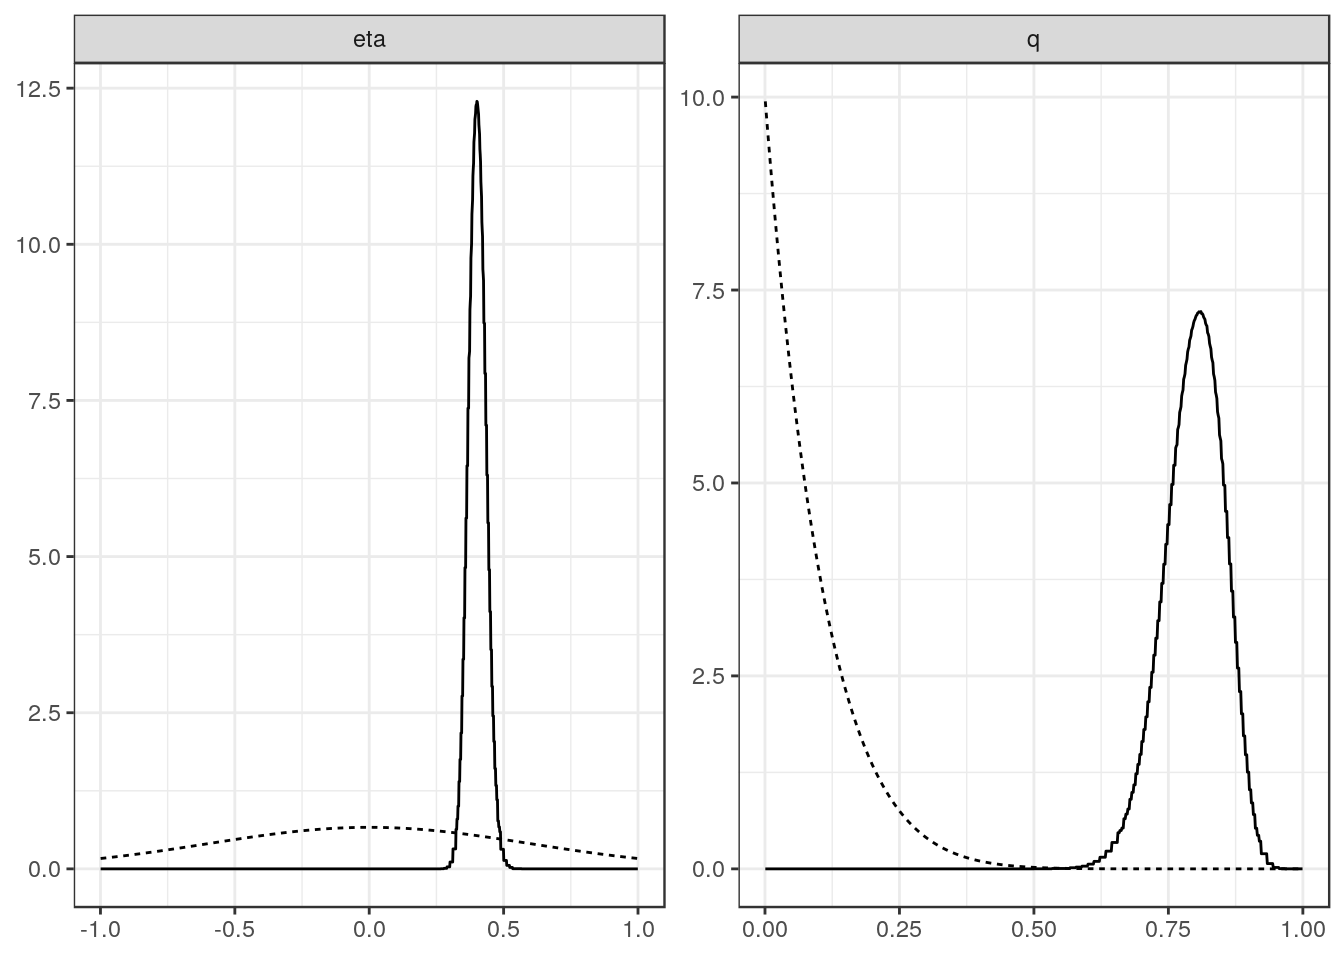
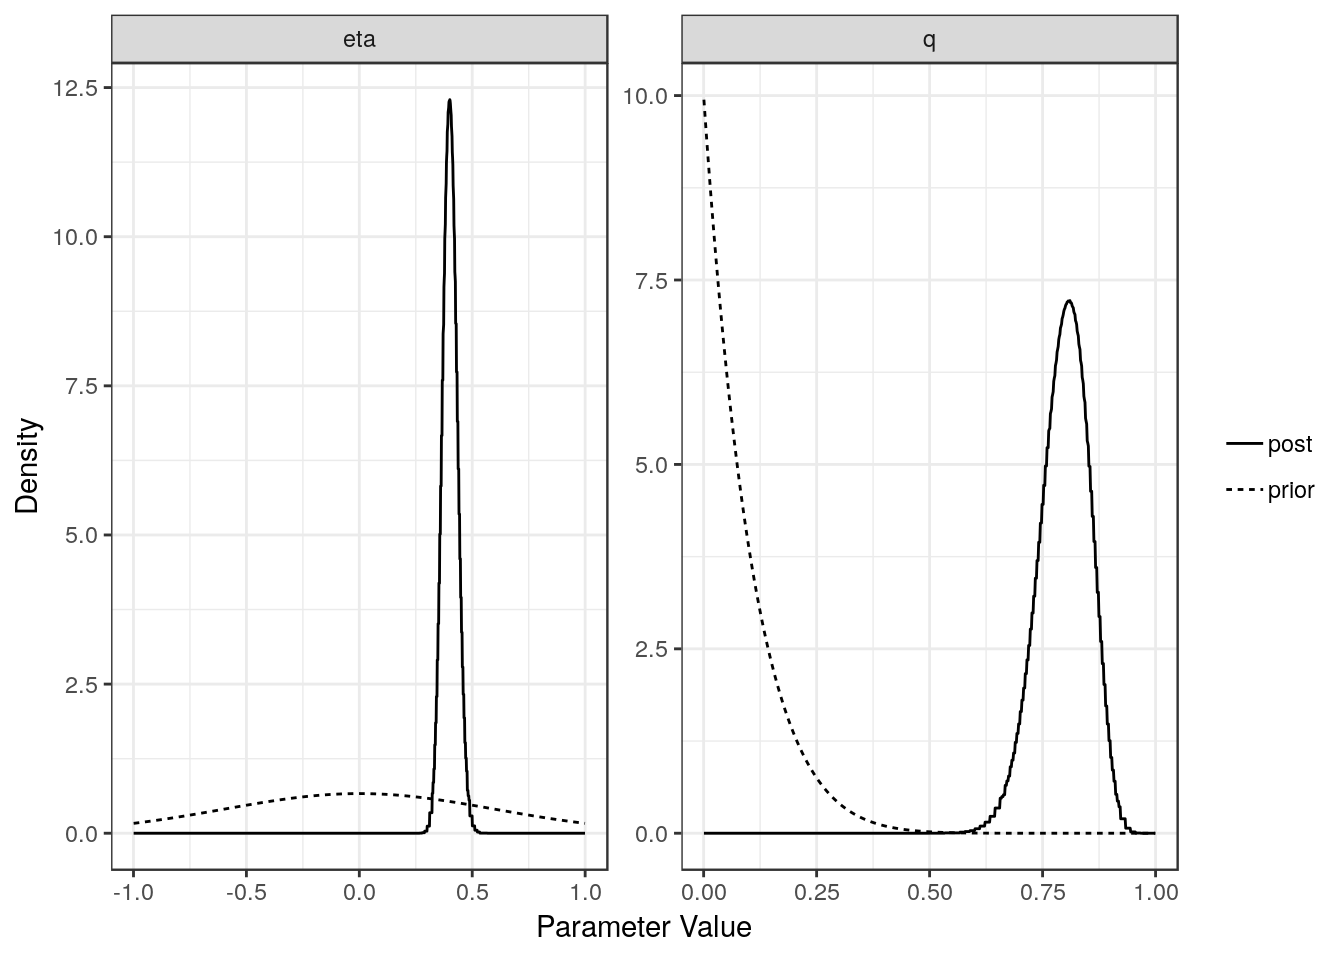
Build site.

diff --git a/docs/ldl_cad.html b/docs/ldl_cad.html
@@ -347,13 +347,12 @@ div.section {
 </details>
 </li>
 <li>
-<p><details> <summary> <strong style="color:blue;">✔</strong> <strong>Repository version:</strong> <a href="https://github.com/jean997/cause/tree/1a891e3b8f5e85ae882d7b6b31fb0f590825c34c" target="_blank">1a891e3</a> </summary></p>
+<p><details> <summary> <strong style="color:blue;">✔</strong> <strong>Repository version:</strong> <a href="https://github.com/jean997/cause/tree/558cd32e08be455b3a9cca07c0caf5515b3a8ca2" target="_blank">558cd32</a> </summary></p>
 Great! You are using Git for version control. Tracking code development and connecting the code version to the results is critical for reproducibility. The version displayed above was the version of the Git repository at the time these results were generated. <br><br> Note that you need to be careful to ensure that all relevant files for the analysis have been committed to Git prior to generating the results (you can use <code>wflow_publish</code> or <code>wflow_git_commit</code>). workflowr only checks the R Markdown file, but you know if there are other scripts or data files that it depends on. Below is the status of the Git repository when the results were generated:
 <pre><code>
 Ignored files:
     Ignored:    .Rhistory
     Ignored:    .Rproj.user/
-    Ignored:    docs/figure/
 
 Untracked files:
     Untracked:  X.RDS
@@ -374,6 +373,7 @@ Untracked files:
     Untracked:  data/top_ldl_pruned_vars.1.RDS
     Untracked:  ll_v7_notes.Rmd
     Untracked:  matrix_lik.RDS
+    Untracked:  quantile_sampling.R
     Untracked:  src/RcppExports.o
     Untracked:  src/log_likelihood_functions.o
     Untracked:  test_cause.R
@@ -381,6 +381,9 @@ Untracked files:
     Untracked:  test_mixSQP.R
 
 Unstaged changes:
+    Modified:   R/est_cause_params.R
+    Modified:   R/map_pi_rho.R
+    Modified:   R/plot_summary.R
     Modified:   src/cause.so
 
 </code></pre>
@@ -410,6 +413,40 @@ Message
 </tr>
 </thead>
 <tbody>
+<tr>
+<td style="text-align:left;">
+Rmd
+</td>
+<td style="text-align:left;">
+<a href="https://github.com/jean997/cause/blob/558cd32e08be455b3a9cca07c0caf5515b3a8ca2/analysis/ldl_cad.Rmd" target="_blank">558cd32</a>
+</td>
+<td style="text-align:left;">
+Jean Morrison
+</td>
+<td style="text-align:left;">
+2018-10-17
+</td>
+<td style="text-align:left;">
+wflow_publish(“analysis/ldl_cad.Rmd”)
+</td>
+</tr>
+<tr>
+<td style="text-align:left;">
+html
+</td>
+<td style="text-align:left;">
+<a href="https://cdn.rawgit.com/jean997/cause/73690eb831172fcd7130e9b4d2620f85b0c528c1/docs/ldl_cad.html" target="_blank">73690eb</a>
+</td>
+<td style="text-align:left;">
+Jean Morrison
+</td>
+<td style="text-align:left;">
+2018-10-17
+</td>
+<td style="text-align:left;">
+Build site.
+</td>
+</tr>
 <tr>
 <td style="text-align:left;">
 Rmd
@@ -653,10 +690,16 @@ top_ldl_pruned_vars &lt;- unlist(purrr::map(pruned, 2))</code></pre>
 <p>The next step is to estimate the mixture proportions that define the bivariate distribution of effect sizes and to estimate <span class="math inline">\(\rho\)</span>, the correlation between summary statistics that is due to sample overlap or population structure. To do this, we need the data set and the genome-wide set of LD pruned variants obtained in Step 3. This step takes a few minutes. <code>est_cause_params</code> estimates the nuisance parameters by finding the maximum a posteriori estimate of <span class="math inline">\(\rho\)</span> and the mixing parameters when <span class="math inline">\(\gamma = \eta = 0\)</span>.</p>
 <pre class="r"><code>varlist &lt;- readRDS(&quot;data/genome_wide_pruned_vars.RDS&quot;)
 params &lt;- est_cause_params(X, varlist)</code></pre>
-<pre><code>1 0.04264659 
-2 0.0001154791 
-3 7.645724e-07 
-4 5.229598e-09 </code></pre>
+<pre><code>Warning in REBayes::KWDual(A, rep(1, k), normalize(w), control = control): estimated mixing distribution has some negative values:
+               consider reducing rtol</code></pre>
+<pre><code>Warning in ashr:::mixIP(matrix_lik = matrix_lik, prior = c(null_wt,
+rep(1, : Optimization step yields mixture weights that are either too
+small, or negative; weights have been corrected and renormalized after the
+optimization.</code></pre>
+<pre><code>1 0.04264732 
+2 0.0001148034 
+3 7.615412e-07 
+4 4.873483e-09 </code></pre>
 <p>The object <code>params</code> is of class <code>cause_params</code> and contains information about the fit as well as the maximum a posteriori estimates of the mixing parameters (<span class="math inline">\(\pi\)</span>) and <span class="math inline">\(\rho\)</span>. The object <code>params$mix_grid</code> is a data frame defining the distribution of summary statistics. The column <code>S1</code> is the variance for trait 1 (<span class="math inline">\(M\)</span>), the column <code>S2</code> is the variance for trait 2 (<span class="math inline">\(Y\)</span>) and the column <code>pi</code> is the mixture proportion assigned to that variance combination.</p>
 <pre class="r"><code>class(params)</code></pre>
 <pre><code>[1] &quot;cause_params&quot;</code></pre>
@@ -664,15 +707,15 @@ params &lt;- est_cause_params(X, varlist)</code></pre>
 <pre><code> [1] &quot;rho&quot;       &quot;pi&quot;        &quot;mix_grid&quot;  &quot;loglik&quot;    &quot;PIS&quot;      
  [6] &quot;RHO&quot;       &quot;LLS&quot;       &quot;converged&quot; &quot;prior&quot;     &quot;var&quot;      </code></pre>
 <pre class="r"><code>params$rho</code></pre>
-<pre><code>[1] 0.04276284</code></pre>
+<pre><code>[1] 0.04276289</code></pre>
 <pre class="r"><code>head(params$mix_grid)</code></pre>
-<pre><code>           S1 S2           pi
-1 0.000000000  0 5.607670e-01
-2 0.003257738  0 5.819598e-11
-3 0.004607137  0 3.878706e-11
-4 0.013030951  0 1.616762e-12
-5 0.026061902  0 1.954018e-13
-6 0.036857095  0 9.067119e-14</code></pre>
+<pre><code>           S1          S2          pi
+1 0.000000000 0.000000000 0.560520944
+2 0.000000000 0.003844598 0.120836282
+3 0.000000000 0.005437082 0.100195136
+4 0.003257738 0.005437082 0.096289670
+5 0.004607137 0.005437082 0.091382815
+6 0.004607137 0.010874164 0.008014747</code></pre>
 <p>So, for example, in this case, we have estimated that 56% of variants have trait 1 variance and trait 2 equal to 0 meaning that they have no association with either trait.</p>
 <p>Tip: Do not try to estimate the nuisance parameters with substantially fewer than 100,000 variants. This can lead to poor estimates of the mixing parameters whih leads to bad model fits in step 5.</p>
 </div>
@@ -697,9 +740,9 @@ when loading &#39;sherlockAsh&#39;</code></pre>
 <pre><code>[1] &quot;conf&quot; &quot;full&quot; &quot;elpd&quot;</code></pre>
 <pre class="r"><code>res$elpd</code></pre>
 <pre><code>  model1 model2 delta_elpd se_delta_elpd         z
-1   null   conf -85.823907     10.020113 -8.565164
-2   null   full -93.951810     11.101309 -8.463129
-3   conf   full  -8.127903      1.231842 -6.598169</code></pre>
+1   null   conf -85.547526      9.966759 -8.583285
+2   null   full -93.805899     11.113543 -8.440684
+3   conf   full  -8.258373      1.286142 -6.421045</code></pre>
 <pre class="r"><code>class(res$conf)</code></pre>
 <pre><code>[1] &quot;cause_post&quot;</code></pre>
 <pre class="r"><code>class(res$full)</code></pre>
@@ -711,25 +754,115 @@ when loading &#39;sherlockAsh&#39;</code></pre>
 <li>se_delta_elpd: Estimated standard error of delta_elpd</li>
 <li>z: delta_elpd/se_delta_elpd. A z-score that can be compared to a normal distribution to test if the difference in model fit is significant.</li>
 </ul>
-<p>In this case we see that the full (causal) model is significantly better than the confounding model from the thrid line of the table. The <span class="math inline">\(z\)</span>-score is -6.6 corresponding to a p-value of 2.110^{-11}.</p>
-<p>For each model (confounding and full) we can plot the posterior distributions of the parameters.</p>
+<p>In this case we see that the full (causal) model is significantly better than the confounding model from the thrid line of the table. The <span class="math inline">\(z\)</span>-score is -6.42 corresponding to a p-value of 6.810^{-11}.</p>
+<p>For each model (confounding and full) we can plot the posterior distributions of the parameters. Dotted lines show the prior distributions.</p>
 <pre class="r"><code>plot(res$conf)</code></pre>
 <p><img src="figure/ldl_cad.Rmd/plot1-1.png" width="672" style="display: block; margin: auto;" /></p>
+<details> <summary><em>Expand here to see past versions of plot1-1.png:</em></summary>
+<table style="border-collapse:separate; border-spacing:5px;">
+<thead>
+<tr>
+<th style="text-align:left;">
+Version
+</th>
+<th style="text-align:left;">
+Author
+</th>
+<th style="text-align:left;">
+Date
+</th>
+</tr>
+</thead>
+<tbody>
+<tr>
+<td style="text-align:left;">
+<a href="https://github.com/jean997/cause/blob/73690eb831172fcd7130e9b4d2620f85b0c528c1/docs/figure/ldl_cad.Rmd/plot1-1.png" target="_blank">73690eb</a>
+</td>
+<td style="text-align:left;">
+Jean Morrison
+</td>
+<td style="text-align:left;">
+2018-10-17
+</td>
+</tr>
+</tbody>
+</table>
+<p></details></p>
 <pre class="r"><code>plot(res$full)</code></pre>
 <p><img src="figure/ldl_cad.Rmd/plot1-2.png" width="672" style="display: block; margin: auto;" /></p>
+<details> <summary><em>Expand here to see past versions of plot1-2.png:</em></summary>
+<table style="border-collapse:separate; border-spacing:5px;">
+<thead>
+<tr>
+<th style="text-align:left;">
+Version
+</th>
+<th style="text-align:left;">
+Author
+</th>
+<th style="text-align:left;">
+Date
+</th>
+</tr>
+</thead>
+<tbody>
+<tr>
+<td style="text-align:left;">
+<a href="https://github.com/jean997/cause/blob/73690eb831172fcd7130e9b4d2620f85b0c528c1/docs/figure/ldl_cad.Rmd/plot1-2.png" target="_blank">73690eb</a>
+</td>
+<td style="text-align:left;">
+Jean Morrison
+</td>
+<td style="text-align:left;">
+2018-10-17
+</td>
+</tr>
+</tbody>
+</table>
+<p></details></p>
 <p>The <code>summary</code> method will summarize the posterior medians and credible intervals.</p>
 <pre class="r"><code>summary(res, ci_size=0.95)</code></pre>
-<pre><code>p-value testing that causal model is a better fit:  2.1e-11 
+<pre><code>p-value testing that causal model is a better fit:  6.8e-11 
 Posterior medians and  95 % credible intervals:
-     model              gamma               eta               
-[1,] &quot;Confounding Only&quot; NA                  &quot;0.4 (0.34, 0.47)&quot;
-[2,] &quot;Causal&quot;           &quot;0.36 (0.31, 0.42)&quot; &quot;0 (-0.52, 0.5)&quot;  
+     model              gamma              eta               
+[1,] &quot;Confounding Only&quot; NA                 &quot;0.4 (0.34, 0.47)&quot;
+[2,] &quot;Causal&quot;           &quot;0.36 (0.3, 0.42)&quot; &quot;0 (-0.52, 0.5)&quot;  
      q                 
 [1,] &quot;0.8 (0.68, 0.89)&quot;
 [2,] &quot;0.04 (0, 0.25)&quot;  </code></pre>
 <p>The <code>plot</code> method applied to a <code>cause</code> object will arrange all of this information on one spread.</p>
 <pre class="r"><code>plot(res)</code></pre>
 <p><img src="figure/ldl_cad.Rmd/plot2-1.png" width="672" style="display: block; margin: auto;" /></p>
+<details> <summary><em>Expand here to see past versions of plot2-1.png:</em></summary>
+<table style="border-collapse:separate; border-spacing:5px;">
+<thead>
+<tr>
+<th style="text-align:left;">
+Version
+</th>
+<th style="text-align:left;">
+Author
+</th>
+<th style="text-align:left;">
+Date
+</th>
+</tr>
+</thead>
+<tbody>
+<tr>
+<td style="text-align:left;">
+<a href="https://github.com/jean997/cause/blob/73690eb831172fcd7130e9b4d2620f85b0c528c1/docs/figure/ldl_cad.Rmd/plot2-1.png" target="_blank">73690eb</a>
+</td>
+<td style="text-align:left;">
+Jean Morrison
+</td>
+<td style="text-align:left;">
+2018-10-17
+</td>
+</tr>
+</tbody>
+</table>
+<p></details></p>
 </div>
 <div id="session-information" class="section level2">
 <h2>Session information</h2>
@@ -757,29 +890,28 @@ other attached packages:
 [1] bindrcpp_0.2.2 cause_0.1.0    dplyr_0.7.6    readr_1.1.1   
 
 loaded via a namespace (and not attached):
- [1] Rcpp_0.12.19       lattice_0.20-35    tidyr_0.8.1       
- [4] Rmosek_7.1.3       assertthat_0.2.0   rprojroot_1.3-2   
- [7] digest_0.6.17      foreach_1.4.4      utf8_1.1.4        
-[10] truncnorm_1.0-8    R6_2.3.0           plyr_1.8.4        
-[13] backports_1.1.2    evaluate_0.11      ggplot2_3.0.0     
-[16] pillar_1.3.0       rlang_0.2.2        lazyeval_0.2.1    
-[19] sherlockAsh_0.3.1  pscl_1.5.2         whisker_0.3-2     
-[22] R.utils_2.7.0      R.oo_1.22.0        Matrix_1.2-14     
-[25] rmarkdown_1.10     labeling_0.3       stringr_1.3.1     
-[28] REBayes_1.3        loo_2.0.0          munsell_0.5.0     
-[31] mixsqp_0.1-58      compiler_3.5.1     numDeriv_2016.8-1 
-[34] pkgconfig_2.0.2    SQUAREM_2017.10-1  htmltools_0.3.6   
-[37] tidyselect_0.2.4   tibble_1.4.2       gridExtra_2.3     
-[40] workflowr_1.1.1    intervals_0.15.1   codetools_0.2-15  
-[43] matrixStats_0.54.0 fansi_0.3.0        crayon_1.3.4      
-[46] MASS_7.3-50        R.methodsS3_1.7.1  grid_3.5.1        
-[49] gtable_0.2.0       git2r_0.23.0       magrittr_1.5      
-[52] scales_1.0.0       RcppParallel_4.4.1 cli_1.0.1         
-[55] stringi_1.2.4      doParallel_1.0.14  iterators_1.0.10  
-[58] tools_3.5.1        glue_1.3.0         purrr_0.2.5       
-[61] hms_0.4.2          parallel_3.5.1     yaml_2.2.0        
-[64] colorspace_1.3-2   ashr_2.2-19        knitr_1.20        
-[67] bindr_0.1.1       </code></pre>
+ [1] tidyselect_0.2.4   ashr_2.2-19        purrr_0.2.5       
+ [4] lattice_0.20-35    Rmosek_7.1.3       colorspace_1.3-2  
+ [7] htmltools_0.3.6    loo_2.0.0          yaml_2.2.0        
+[10] utf8_1.1.4         rlang_0.2.2        R.oo_1.22.0       
+[13] pillar_1.3.0       glue_1.3.0         R.utils_2.7.0     
+[16] REBayes_1.3        matrixStats_0.54.0 foreach_1.4.4     
+[19] bindr_0.1.1        plyr_1.8.4         stringr_1.3.1     
+[22] munsell_0.5.0      gtable_0.2.0       workflowr_1.1.1   
+[25] R.methodsS3_1.7.1  codetools_0.2-15   evaluate_0.11     
+[28] labeling_0.3       knitr_1.20         doParallel_1.0.14 
+[31] pscl_1.5.2         sherlockAsh_0.3.1  parallel_3.5.1    
+[34] fansi_0.3.0        Rcpp_0.12.19       backports_1.1.2   
+[37] scales_1.0.0       RcppParallel_4.4.1 truncnorm_1.0-8   
+[40] gridExtra_2.3      ggplot2_3.0.0      hms_0.4.2         
+[43] digest_0.6.17      stringi_1.2.4      numDeriv_2016.8-1 
+[46] grid_3.5.1         rprojroot_1.3-2    cli_1.0.1         
+[49] tools_3.5.1        magrittr_1.5       lazyeval_0.2.1    
+[52] tibble_1.4.2       tidyr_0.8.1        crayon_1.3.4      
+[55] whisker_0.3-2      pkgconfig_2.0.2    MASS_7.3-50       
+[58] Matrix_1.2-14      SQUAREM_2017.10-1  assertthat_0.2.0  
+[61] rmarkdown_1.10     iterators_1.0.10   R6_2.3.0          
+[64] intervals_0.15.1   git2r_0.23.0       compiler_3.5.1    </code></pre>
 </div>
 
 <!-- Adjust MathJax settings so that all math formulae are shown using
